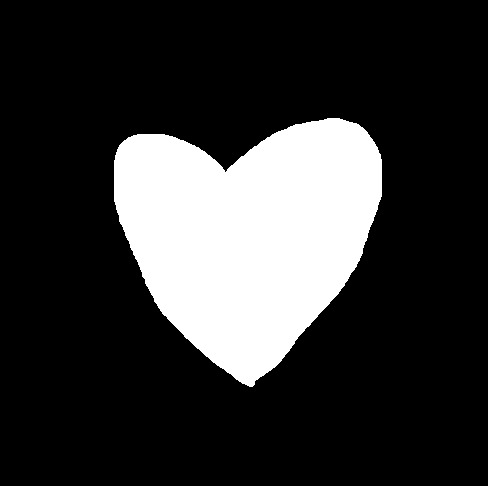
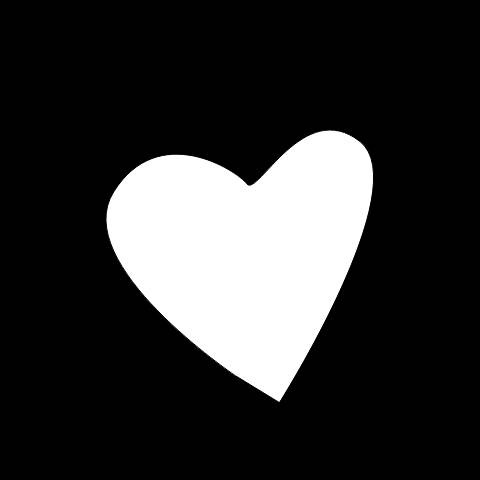
made a start on radial plugin

diff --git a/src/StarShapedDomainTool/backends/webgl2/renderer.ts b/src/StarShapedDomainTool/backends/webgl2/renderer.ts
@@ -18,7 +18,7 @@ export class StarShapedDomainWipeRenderer {
 
     image: HTMLImageElement;
     async init() {
-        const imAdr = "/pinsandcurves-panels/im.jpg";
+        const imAdr = "/pinsandcurves-panels/shape.jpg";
         const image = new Image();
         image.src = imAdr;
         this.image = image;
@@ -31,6 +31,7 @@ export class StarShapedDomainWipeRenderer {
 
     resources : any = {};
     setup() {
+        this.gl.getExtension('EXT_color_buffer_float');
         this.resources.uniformProviderSignature = {
             uniformProviderName: 'Uniforms',
             uniformStructure: [
@@ -81,32 +82,123 @@ export class StarShapedDomainWipeRenderer {
             uniformProviderSignature: this.resources.uniformProviderSignature
         });
         this.resources.exampleProgram.setup();
-        this.resources.exampleTexture = new Texture(this.gl, {
+        this.resources.inputShape = new Texture(this.gl, {
             shape: [this.image.width, this.image.height],
             type: 'RGBA8',
         })
-        this.resources.exampleTexture.setup();
-        this.resources.exampleTexture.setData(this.image);
+        this.resources.inputShape.setup();
+        this.resources.inputShape.setData(this.image);
 
         this.resources.shapeViewerTexture = new Texture(this.gl, {
-            shape: [300, 300],
+            shape: [480, 480],
             type: 'RGBA8',
             createFramebuffer: true,
         });
         this.resources.shapeViewerTexture.setup();
         this.resources.shapeViewerTexture.setData(this.image);
 
-        this.resources.targetTexture = new Texture(this.gl, {
-            shape: [300,300],
+        this.resources.mainCanvasTexture = new Texture(this.gl, {
+            shape: [1920,1080],
             type: 'RGBA8',
             createFramebuffer: true,
         })
-        this.resources.targetTexture.setup();
+        this.resources.mainCanvasTexture.setup();
         this.resources.fullscreenQuadVertexProvider.setVertexData({
             a_position: [-1.0, -1.0, 1.0, -1.0, -1.0, 1.0, 1.0, 1.0],
             texCoord: [0.0, 0.0, 1.0, 0.0, 0.0, 1.0, 1.0, 1.0]
         })
         this.resources.fullscreenQuadVertexProvider.setIndexData([0, 1, 2, 1, 3, 2]);
+
+        this.resources.distanceTexture = new Texture(this.gl, {
+            shape: [90,1],
+            type: 'R32F',
+            createFramebuffer: true,
+            textureOptions: {
+                minFilter: this.gl.LINEAR,
+                magFilter: this.gl.LINEAR,
+                wrapS: this.gl.CLAMP_TO_EDGE,
+                wrapT: this.gl.CLAMP_TO_EDGE
+            }
+        });
+        this.resources.distanceTexture.setup();
+        this.resources.distanceComputationProgram = new Program(this.gl, {
+            vertexShader: `
+            out vec2 v_texCoord;
+            void main() {
+                gl_Position = vec4(a_position, 0.0, 1.0);
+                v_texCoord = texCoord;
+            }
+        `,
+            fragmentShader: `
+            out float distanceValue;
+            in vec2 v_texCoord;
+            uniform sampler2D u_texture;
+            vec2 toUV(vec2 p) {
+                return p * 0.5 + 0.5;
+            }
+            void main() {
+                float angle = v_texCoord.x * 6.28318530718; 
+                vec2 p1 = shapePoint;
+                vec2 p2 = vec2(cos(angle), sin(angle)) * sqrt(2.);
+                vec2 mid = (p1 + p2) * 0.5;
+                for (int i = 0; i < 32; i++) {
+                    float val = texture(u_texture, toUV(mid)).r;
+                    bool inShape = val > .5;
+                    if (inShape) {
+                        p1 = mid;
+                    } else {
+                        p2 = mid;
+                    }
+                    mid = (p1 + p2) * 0.5;
+                }
+                distanceValue = sqrt(dot(mid, mid)) / sqrt(2.0); 
+            }
+        `,
+            vertexProviderSignature: this.resources.fullscreenQuadVertexProviderSignature,
+            uniformProviderSignature: this.resources.uniformProviderSignature
+        });
+        this.resources.distanceComputationProgram.setup();
+
+        this.resources.mainCanvasDistanceRendererProgram = new Program(this.gl, {
+            vertexShader: `
+            out vec2 v_texCoord;
+            void main() {
+                gl_Position = vec4(a_position, 0.0, 1.0);
+                v_texCoord = a_position;
+            }
+        `,
+            fragmentShader: `
+            out vec4 outColor;
+            in vec2 v_texCoord;
+            uniform sampler2D u_texture;
+            void main() {
+                float normedDistance = sqrt(dot(v_texCoord, v_texCoord)) / sqrt(2.0);
+                float angle = (atan(v_texCoord.y, v_texCoord.x) + 3.14159265) / 6.28318530718;
+                //float targetDistance = texture(u_texture, vec2(angle, 0.5)).r ;
+                float targetDistance = 0;
+                int samples = 5;
+                float delta = 0.01;
+                for (int i = 0; i < samples; i++) {
+                    float i_f = float(i);
+                    float pos = angle + (i_f - 0.5 / float(samples)) * delta;
+                    targetDistance += texture(u_texture, vec2(pos, 0.5)).r;
+                }
+                targetDistance /= float(samples);
+                float currentDistance = normedDistance;
+                float distance = currentDistance - targetDistance;
+                //distance = smoothstep(0.0, 0.1, distance);
+                distance = max(distance, 0.0);
+                float outC = sin(distance * 3.14159265 * 7.) * 0.5 + 0.5;
+                outColor = vec4(vec3(outC),1.);
+                //outColor = vec4(vec3(texture(u_texture, v_texCoord * 0.5 + 0.5).r), 1.0);
+                //outColor = vec4(distance, distance, distance, 1.0);
+                //outColor = vec4(texture(u_texture, v_texCoord * 0.5 + 0.5).rgb, 1.0);
+            }
+        `,
+            vertexProviderSignature: this.resources.fullscreenQuadVertexProviderSignature,
+            uniformProviderSignature: this.resources.uniformProviderSignature
+        });
+        this.resources.mainCanvasDistanceRendererProgram.setup();
     }
 
     // init() {
@@ -142,9 +234,28 @@ export class StarShapedDomainWipeRenderer {
     // };
 
     draw() {
-        // Render Pass 1: Render into example texture
-        this.gl.viewport(0, 0, 300, 300);
-        this.gl.bindFramebuffer(this.gl.FRAMEBUFFER, this.resources.targetTexture.framebuffer);
+        // Render Pass: Compute distances
+        this.gl.viewport(0, 0, 90, 1);
+        this.gl.bindFramebuffer(this.gl.FRAMEBUFFER, this.resources.distanceTexture.framebuffer);
+        this.gl.clearColor(0, 0, 0, 1);
+        this.gl.clear(this.gl.COLOR_BUFFER_BIT | this.gl.DEPTH_BUFFER_BIT);
+        this.resources.uniformProvider.setUniforms({
+            shapePoint: [0, 0],
+            canvasPoint: [0, 0],
+            boundingBox: [1, 1, 0, 0] // full canvas
+        });
+        this.resources.distanceComputationProgram.draw({
+            uniformProvider: this.resources.uniformProvider,
+            vertexProvider: this.resources.fullscreenQuadVertexProvider,
+            textures: {
+                u_texture: this.resources.inputShape
+            }
+        });
+
+
+        // Render Pass 1: Render into main canvas texture
+        this.gl.viewport(0, 0, 1920, 1080);
+        this.gl.bindFramebuffer(this.gl.FRAMEBUFFER, this.resources.mainCanvasTexture.framebuffer);
         this.gl.clearColor(1, 0, 0, 1);
         this.gl.clear(this.gl.COLOR_BUFFER_BIT | this.gl.DEPTH_BUFFER_BIT);
         this.resources.uniformProvider.setUniforms({
@@ -152,15 +263,15 @@ export class StarShapedDomainWipeRenderer {
             canvasPoint: [0, 0],
             boundingBox: [1, 1, 0, 0] 
         });
-        this.resources.exampleProgram.draw({
+        this.resources.mainCanvasDistanceRendererProgram.draw({
             uniformProvider: this.resources.uniformProvider,
             vertexProvider: this.resources.fullscreenQuadVertexProvider,
             textures: {
-                u_texture: this.resources.exampleTexture
+                u_texture: this.resources.distanceTexture
             }
         });
         // Render Pass 2: Render into shape viewer texture
-        this.gl.viewport(0, 0, 300, 300);
+        this.gl.viewport(0, 0, 500, 500);
         this.gl.bindFramebuffer(this.gl.FRAMEBUFFER, this.resources.shapeViewerTexture.framebuffer);
         this.gl.clearColor(1, 0, 0, 1);
         this.gl.clear(this.gl.COLOR_BUFFER_BIT | this.gl.DEPTH_BUFFER_BIT);
@@ -173,7 +284,7 @@ export class StarShapedDomainWipeRenderer {
             uniformProvider: this.resources.uniformProvider,
             vertexProvider: this.resources.fullscreenQuadVertexProvider,
             textures: {
-                u_texture: this.resources.exampleTexture
+                u_texture: this.resources.inputShape
             }
         });
         // Render Pass 3, composite the final image
@@ -184,19 +295,19 @@ export class StarShapedDomainWipeRenderer {
         this.resources.uniformProvider.setUniforms({
             shapePoint: [0, 0],
             canvasPoint: [0, 0],
-            boundingBox: [1,1, 0, 0] // full canvas
+            boundingBox: [-1,1, 0, 0] // full canvas
         });
         this.resources.exampleProgram.draw({
             uniformProvider: this.resources.uniformProvider,
             vertexProvider: this.resources.fullscreenQuadVertexProvider,
             textures: {
-                u_texture: this.resources.targetTexture
+                u_texture: this.resources.mainCanvasTexture
             }
         });
         this.resources.uniformProvider.setUniforms({
             shapePoint: [0, 0],
             canvasPoint: [0, 0],
-            boundingBox: [0.5, 0.5, 0.5, 0] // full canvas
+            boundingBox: [0.25, -0.25, 0.5, -0.5] // full canvas
         });
         this.resources.exampleProgram.draw({
             uniformProvider: this.resources.uniformProvider,

diff --git a/src/StarShapedDomainTool/backends/webgl2/HelperLib/Texture.ts b/src/StarShapedDomainTool/backends/webgl2/HelperLib/Texture.ts
@@ -29,6 +29,12 @@ type TextureDescription = {
     shape: number[];
     type: TextureType;
     createFramebuffer?: boolean;
+    textureOptions? : {
+        minFilter?: number;
+        magFilter?: number;
+        wrapS?: number;
+        wrapT?: number;
+    }
 }
 
 
@@ -49,10 +55,18 @@ class Texture {
         this.gl.pixelStorei(this.gl.UNPACK_ALIGNMENT, 1);
         this.gl.texImage2D(this.gl.TEXTURE_2D, 0, internalFormat, this.description.shape[0], this.description.shape[1], 0, format, type, null);
 
-        this.gl.texParameteri(this.gl.TEXTURE_2D, this.gl.TEXTURE_MIN_FILTER, this.gl.NEAREST);
-        this.gl.texParameteri(this.gl.TEXTURE_2D, this.gl.TEXTURE_MAG_FILTER, this.gl.NEAREST);
-        this.gl.texParameteri(this.gl.TEXTURE_2D, this.gl.TEXTURE_WRAP_S, this.gl.CLAMP_TO_EDGE);
-        this.gl.texParameteri(this.gl.TEXTURE_2D, this.gl.TEXTURE_WRAP_T, this.gl.CLAMP_TO_EDGE);
+        if (this.description.textureOptions) {
+            const { minFilter, magFilter, wrapS, wrapT } = this.description.textureOptions;
+            this.gl.texParameteri(this.gl.TEXTURE_2D, this.gl.TEXTURE_MIN_FILTER, minFilter ?? this.gl.LINEAR);
+            this.gl.texParameteri(this.gl.TEXTURE_2D, this.gl.TEXTURE_MAG_FILTER, magFilter ?? this.gl.LINEAR);
+            this.gl.texParameteri(this.gl.TEXTURE_2D, this.gl.TEXTURE_WRAP_S, wrapS ?? this.gl.CLAMP_TO_EDGE);
+            this.gl.texParameteri(this.gl.TEXTURE_2D, this.gl.TEXTURE_WRAP_T, wrapT ?? this.gl.CLAMP_TO_EDGE);
+        } else {
+            this.gl.texParameteri(this.gl.TEXTURE_2D, this.gl.TEXTURE_MIN_FILTER, this.gl.LINEAR);
+            this.gl.texParameteri(this.gl.TEXTURE_2D, this.gl.TEXTURE_MAG_FILTER, this.gl.LINEAR);
+            this.gl.texParameteri(this.gl.TEXTURE_2D, this.gl.TEXTURE_WRAP_S, this.gl.CLAMP_TO_EDGE);
+            this.gl.texParameteri(this.gl.TEXTURE_2D, this.gl.TEXTURE_WRAP_T, this.gl.CLAMP_TO_EDGE);
+        }
 
         if (this.description.createFramebuffer) {
             this.framebuffer = this.gl.createFramebuffer();
